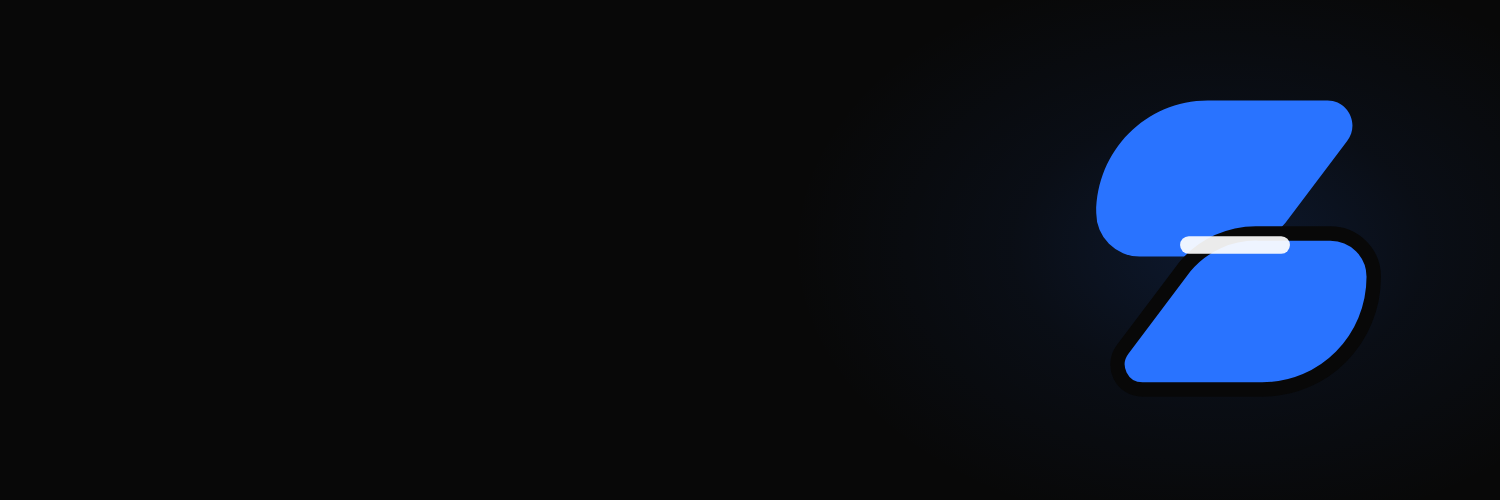
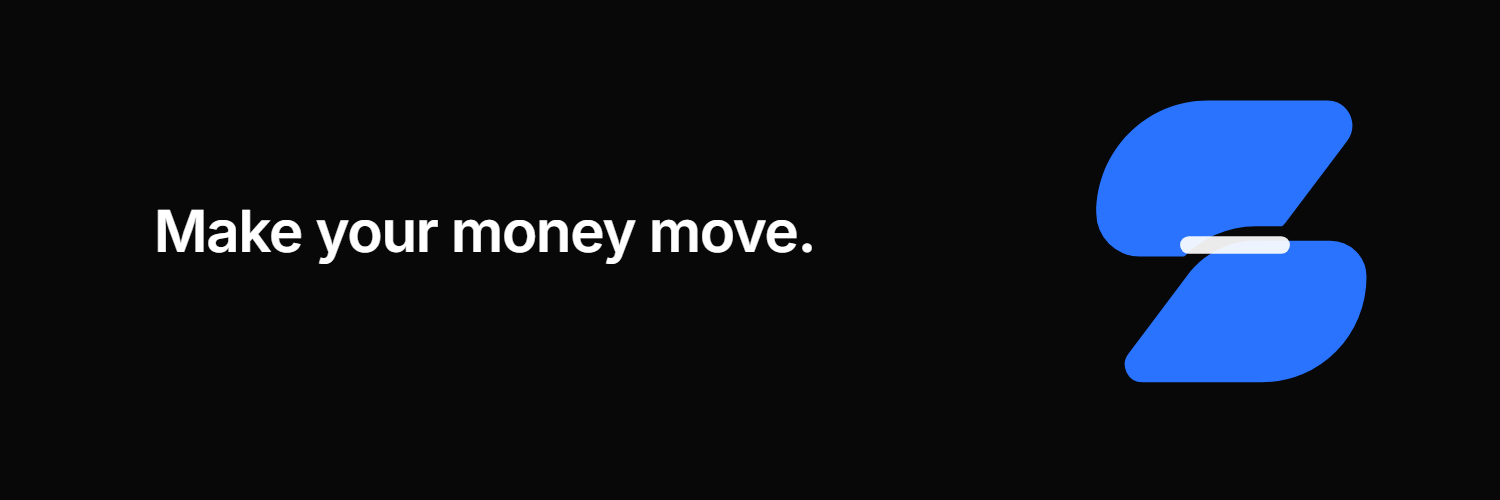
Refine FxAeon X profile artwork

Changed region(s): [[0.092, 0.42, 0.552, 0.54], [0.736, 0.48, 0.7973, 0.63], [0.8587, 0.39, 0.8893, 0.45]]

diff --git a/apps/landing/assets/social/README.md b/apps/landing/assets/social/README.md
@@ -11,10 +11,12 @@ The compositions use the existing FxAeon ribbon paths from
 `apps/mini-app/src/components/FxLogo.tsx` and
 `apps/landing/assets/fxaeon-mark.svg`. The profile keeps the mark centered
 inside the circular crop; at 32px the ribbon mark remains about 23px wide.
-The banner leaves the left side clear for X's overlaid profile photo and keeps
-the mark in the central 380px of banner height. It contains no text.
+The banner uses the current landing headline, “Make your money move.”, in the
+landing's self-hosted Inter font. It sits center-left above the profile-photo
+overlap; the existing FxAeon mark anchors the right. Both remain inside the
+central 380px of banner height.
 
-The palette is the existing `#080808` canvas, `#202020` border, and `#2973FF`
+The palette is the existing `#080808` canvas, `#FFFFFF` text, and `#2973FF`
 brand blue. The logo paths are unchanged.
 
 X's Help Center recommends 400 × 400 profile photos and 1500 × 500 headers.
